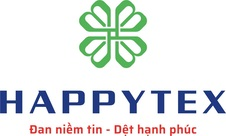
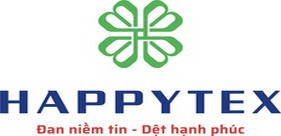
1

diff --git a/index.html b/index.html
@@ -288,7 +288,7 @@
                                                     <span class="portfolio-name">HappyTex ERP</span>
                                                 </span>
                                             </span>
-                                            <img src="images/portfolio-2/2.png" alt="happytex" />
+                                            <img src="images/portfolio-2/2.jpg" alt="happytex" />
                                         </div>
                                     </div>
                                     <!-- close gallery item -->
